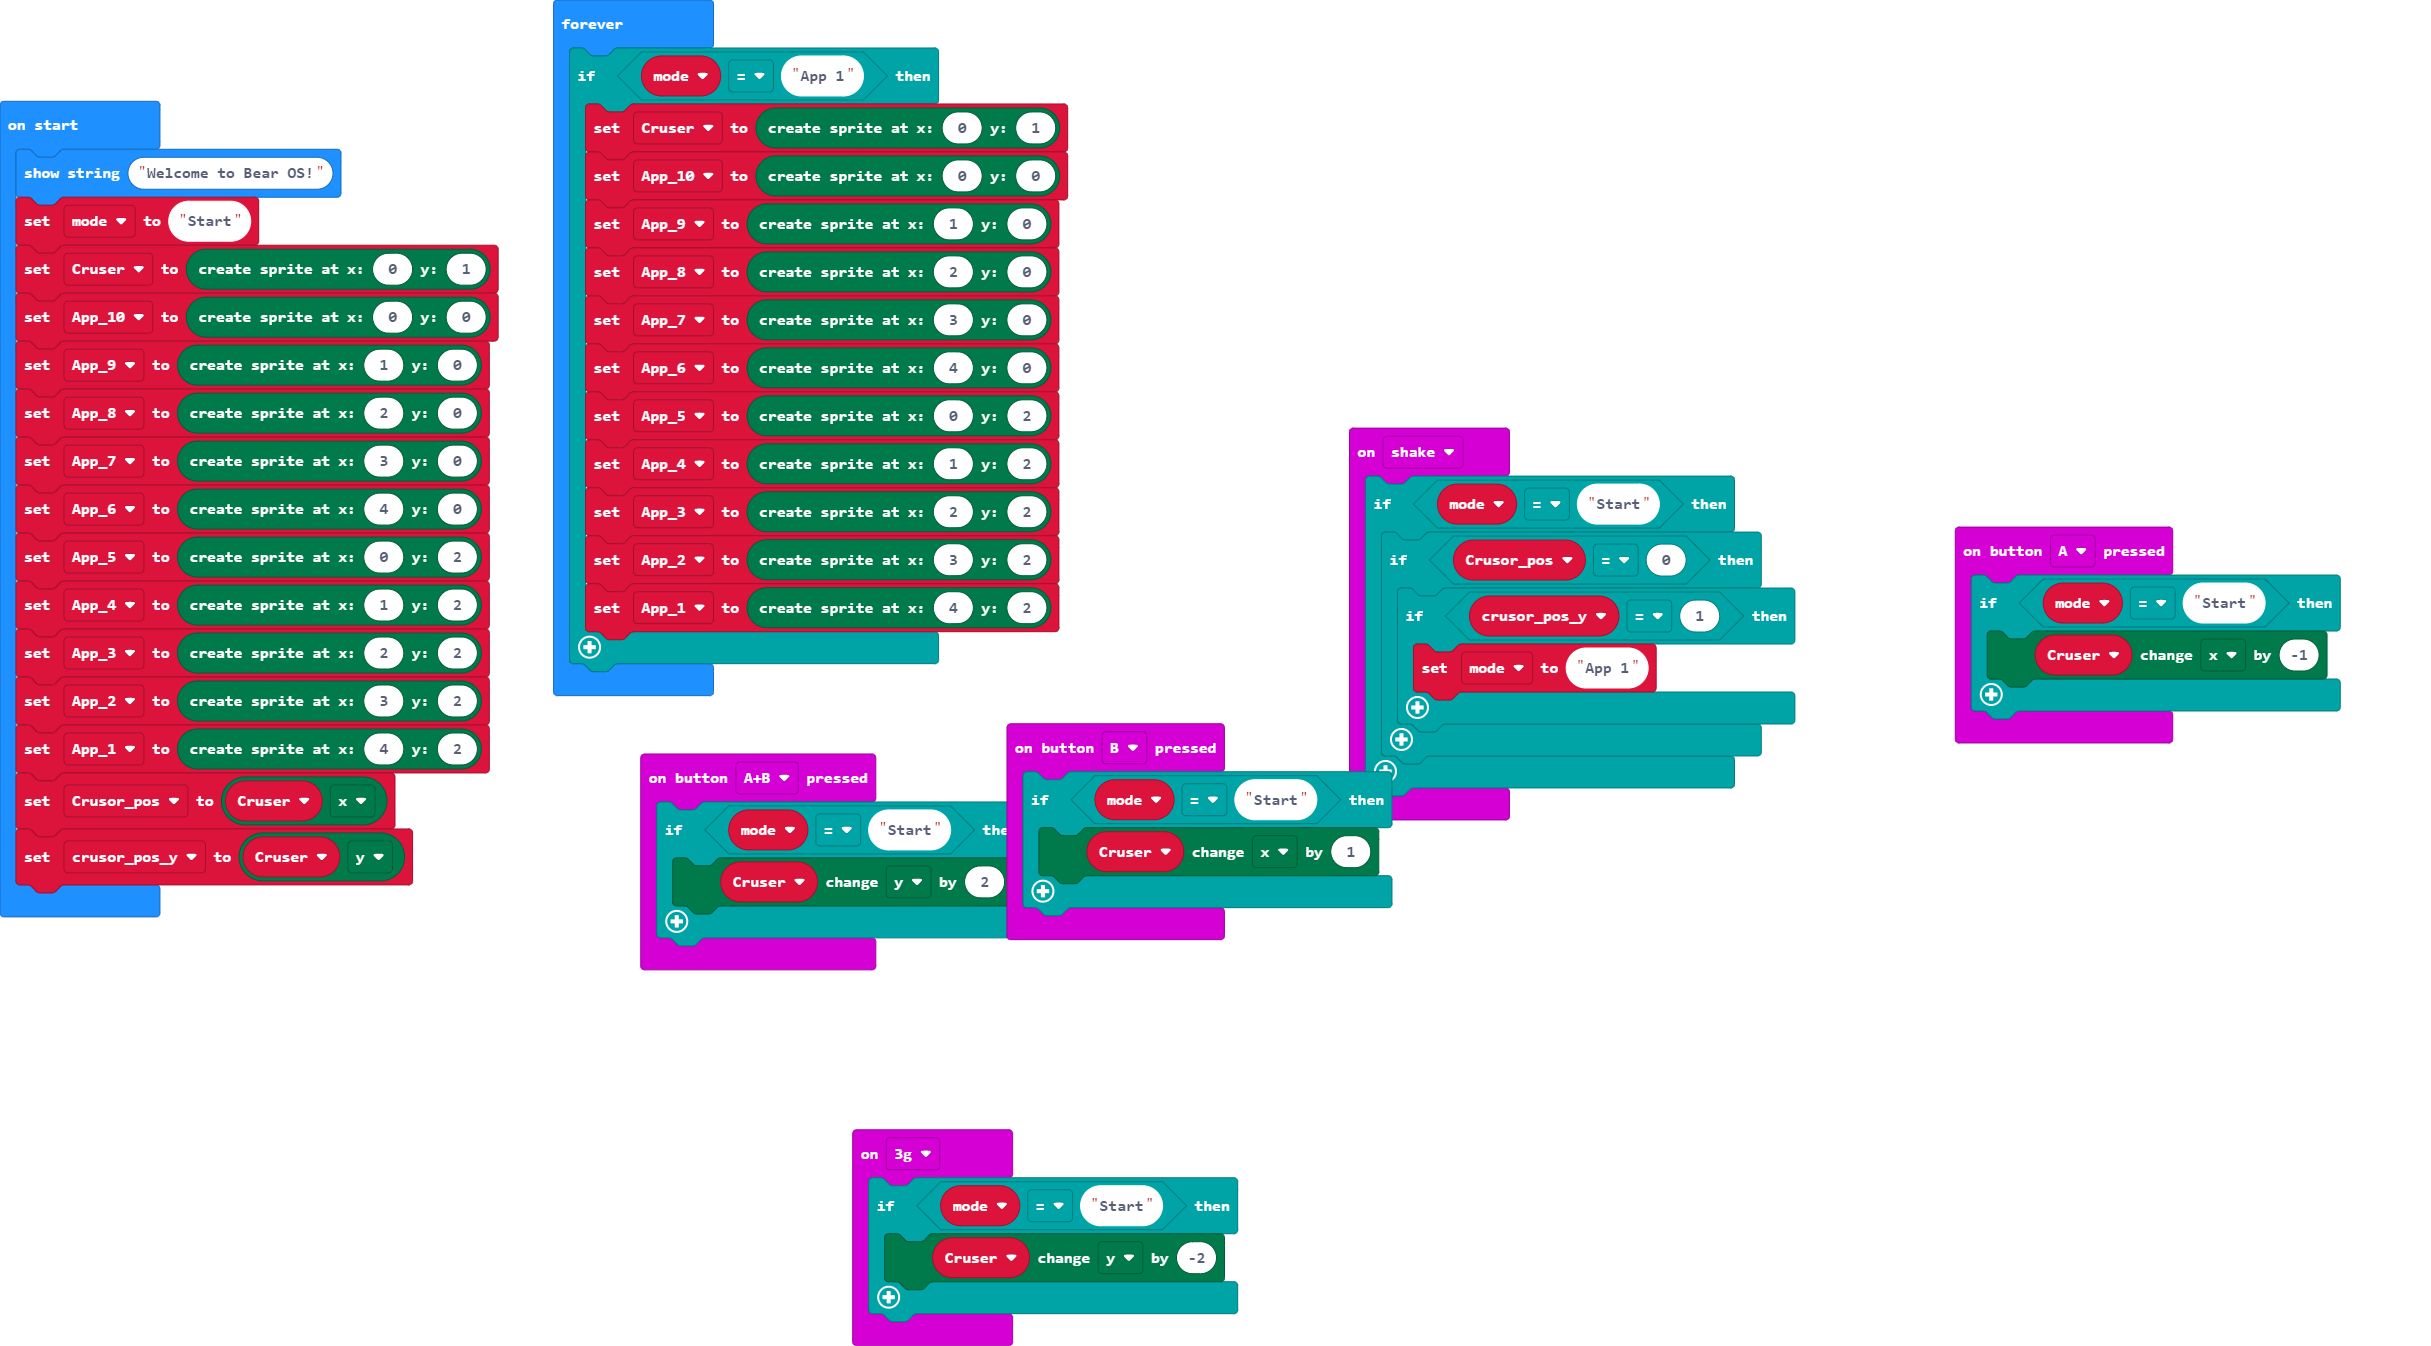
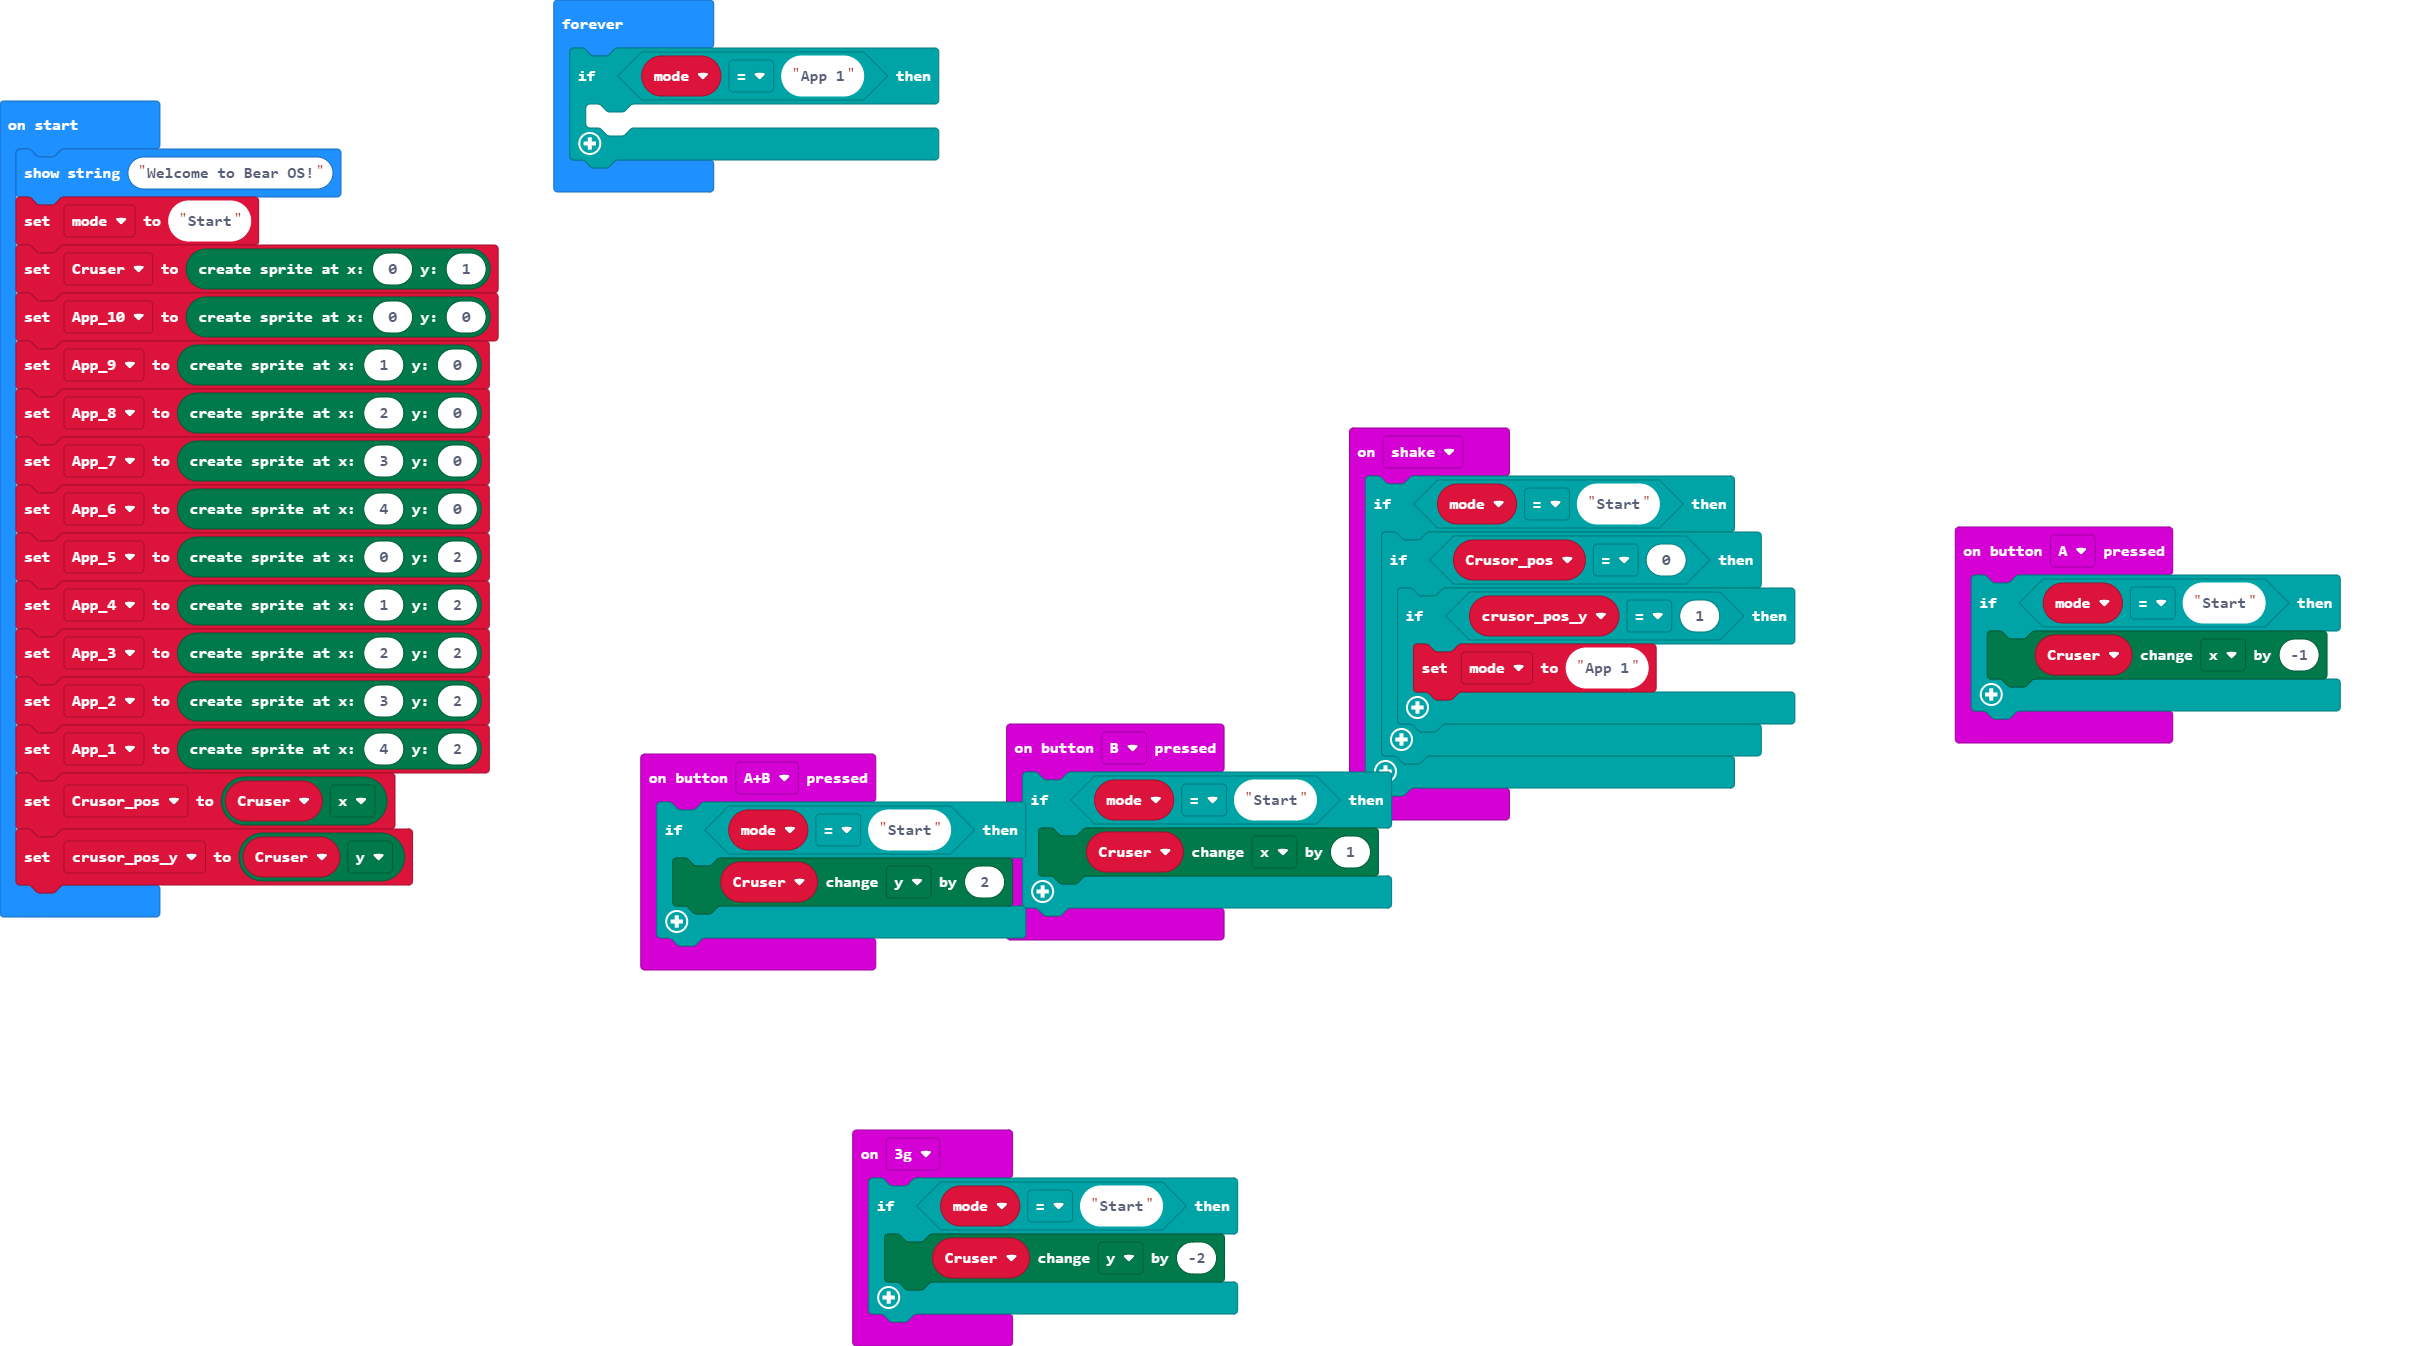
Update main.blocks, main.ts

Changed region(s): [[0.216, 0.0624, 0.4628, 0.5305], [0.4011, 0.5929, 0.4319, 0.7177], [0.3394, 0.9985, 0.4319, 1.0]]

diff --git a/main.ts b/main.ts
@@ -48,16 +48,6 @@ Crusor_pos = Cruser.get(LedSpriteProperty.X)
 crusor_pos_y = Cruser.get(LedSpriteProperty.Y)
 basic.forever(function () {
     if (mode == "App 1") {
-        Cruser = game.createSprite(0, 1)
-        App_10 = game.createSprite(0, 0)
-        App_9 = game.createSprite(1, 0)
-        App_8 = game.createSprite(2, 0)
-        App_7 = game.createSprite(3, 0)
-        App_6 = game.createSprite(4, 0)
-        App_5 = game.createSprite(0, 2)
-        App_4 = game.createSprite(1, 2)
-        App_3 = game.createSprite(2, 2)
-        App_2 = game.createSprite(3, 2)
-        App_1 = game.createSprite(4, 2)
+    	
     }
 })
